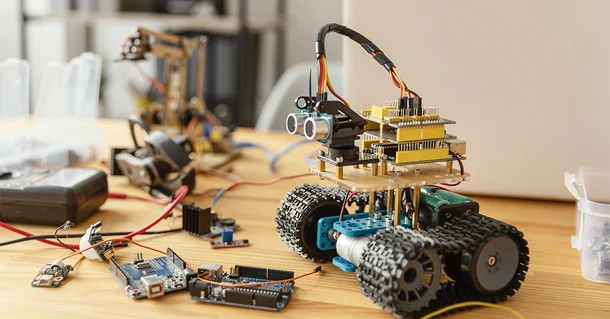
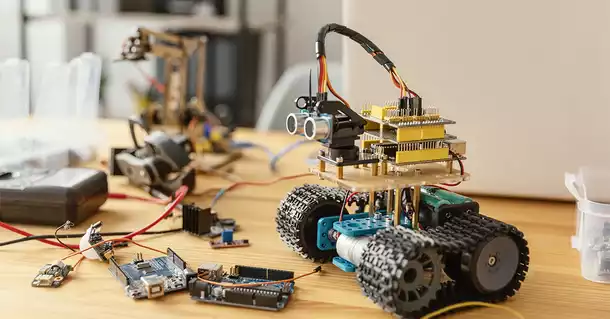
REFACTOR: change size image

Changed region(s): [[0.5607, 0.6207, 0.5918, 0.6489]]

diff --git a/src/components/container/CubeRotateAnimation.jsx b/src/components/container/CubeRotateAnimation.jsx
@@ -2,15 +2,22 @@ import styled from 'styled-components';
 import { useRef, useEffect } from 'react';
 import * as THREE from 'three';
 import { OrbitControls } from 'three/examples/jsm/controls/OrbitControls'
-import img1 from '../../assets/image/imgHDFull/gato-astronauta_3840x2400_xtrafondos.com.jpg'
-import img2 from '../../assets/image/imgHDFull/gato-con-estrellas-de-fondo_3840x2160_xtrafondos.com.jpg';
+import img1 from '../../assets/image/imageProfile/photo1.jpg'
+import img2 from '../../assets/image/imageProfile/photo2.jpg';
 import img3 from '../../assets/image/imgHDFull/gato-con-mariposa-de-fantasia_3840x2160_xtrafondos.com.jpg';
 import img4 from '../../assets/image/imgHDFull/parado-en-el-borde-de-dos-mundos_3840x2160_xtrafondos.com.jpg';
 
 const ContainCube = styled.div`
-    width: 90%;
+    width: 100%;
     height: 35rem;
-    background-color: transparent;
+    position: relative;
+    background-color: tra;
+    filter: drop-shadow(
+        15px 15px 20px rgb(113, 0, 241,0.4)
+    );
+    @media (max-width:300px){
+        height: 30rem;
+    } 
 `;
 
 const CubeRotateAnimation = () => {
@@ -32,10 +39,10 @@ const CubeRotateAnimation = () => {
 
         const controls = new OrbitControls(camera, renderer.domElement);
         controls.enableDamping = true;
+        controls.enablePan= false;
         controls.enableZoom = false;
         controls.minPolarAngle = 1.5;
         controls.maxPolarAngle = 1.5;
-
 
         const geometry = new THREE.BoxGeometry(1, 1, 1);
         const texture = [
@@ -71,7 +78,7 @@ const CubeRotateAnimation = () => {
             camera.updateProjectionMatrix();
             renderer.setSize(clientWidth, clientHeight);
 
-            const newCubeScale = clientWidth < 600 ? 0.8 : 1;
+            const newCubeScale = clientWidth < 600 ? 0.75 : 0.95;
             cube.scale.set(newCubeScale, newCubeScale, newCubeScale);
         }
 

diff --git a/src/components/pure/Header.jsx b/src/components/pure/Header.jsx
@@ -96,7 +96,7 @@ const Header = () => {
     return (
         <NavBar>
             <Img/>
-            {screenSize < 700 ? <NavMenu onClick={handleNavMenuClick}>
+            { screenSize < 700 ? <NavMenu onClick={handleNavMenuClick}>
                 <span></span>
                 <span></span>
                 <span></span>
@@ -107,7 +107,7 @@ const Header = () => {
                     <Link to="/Technologies"><ButtonNav text="Technologies" /></Link>
                     <Link to="/Projects"><ButtonNav text="Projects" /></Link>
                     <Link to="/Contact"><ButtonNav text="Contact" /></Link>
-                </Nav>}
+                </Nav> }
                 {isNavBarRightVisible && screenSize < 700 && <NavBarRight closeNavBar={handleNavMenuClick}/>}
             <Outlet />
         </NavBar>

diff --git a/src/pages/Home.jsx b/src/pages/Home.jsx
@@ -33,6 +33,7 @@ const Article = styled.article`
     } 
 `;
 const ArticleTwo = styled.article`
+    margin-bottom: 1rem;
     position: relative;
     width: 50%;
     display: flex;
@@ -43,6 +44,7 @@ const ArticleTwo = styled.article`
     } 
 `;
 const AnimateMoveImage = styled.div`
+    z-index: 100;
     font-family: 'Blouse','Aesthetic','Segoe UI', Roboto, Oxygen, Ubuntu, Cantarell, 'Open Sans', 'Helvetica Neue', sans-serif;
     font-size: 2rem;
     text-align: center;

diff --git a/src/pages/Projects.jsx b/src/pages/Projects.jsx
@@ -1,6 +1,6 @@
 import styled from 'styled-components';
 import CardProject from '../components/container/CardProject';
-import imgCardOne from '../assets/image/imgProyect/pexels-guilherme-rossi-1755693.jpg';
+import imgCardOne from '../assets/image/imgProyect/pexel.jpg';
 import logoCardOne from '../assets/image/imgProyect/Logo.svg';
 import imageCardTwo from '../assets/image/imgProyect/banner0.jpg';
 import logoCardtwo from '../assets/image/imgProyect/iconoFondoNegroPNG.png';

diff --git a/src/index.css b/src/index.css
@@ -31,7 +31,7 @@
 }
 
 body {
-    background-image: url(./assets/image/imgCircuitBoard/24305-Circuit-4k-Ultra-HD-Wallpaper.jpg);
+    background-image: url(./assets/image/imgCircuitBoard/wall_electro.jpg);
     background-position: left;
     background-size: cover;
     background-attachment: fixed;

diff --git a/src/components/container/CarouselTechnologies.jsx b/src/components/container/CarouselTechnologies.jsx
@@ -20,6 +20,7 @@ import img19 from '../../assets/image/iconTechnologies/bootstrap.svg';
 
 const ContainerCarousel = styled.div`
 	width: 100%;
+    max-width: 800px;// cambio de altura maxima
     height: 22rem;
     margin-bottom: 2rem;
 	perspective: 1000px;

diff --git a/src/pages/Technologies.jsx b/src/pages/Technologies.jsx
@@ -8,6 +8,7 @@ const Main = styled.main`
     padding-right: 2rem;
     padding-left: 2rem;
     align-items: center; 
+    overflow: hidden;
 `;
 const Text = styled.p`
     font-family: 'Courier New', Courier, monospace;
